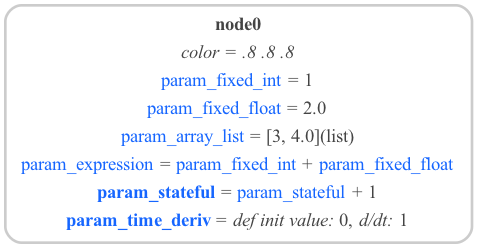
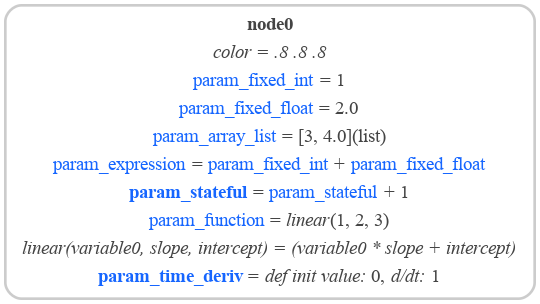
More in param func example

diff --git a/src/modeci_mdf/mdf.py b/src/modeci_mdf/mdf.py
@@ -166,9 +166,9 @@ class ParameterCondition(Base):
 @modelspec.define(eq=False)
 class Parameter(MdfBase):
     r"""
-    A parameter of the :class:`Node`, which can have a specific value (a constant or a string expression
-    referencing other :class:`Parameter`\(s)), be evaluated by an inbuilt function with args, or change from a
-    :code:`default_initial_value` with a :code:`time_derivative`.
+    A parameter of the :class:`Node`, which can be: 1) a specific fixed :code:`value` (a constant (int/float) or an array) 2) a string expression for the :code:`value`
+    referencing other named :class:`Parameter`\(s). which may be stateful (i.e. can change value over multiple executions of the :class:`Node`); 3) be evaluated by an
+    inbuilt :code:`function` with :code:`args`; 4) or change from a :code:`default_initial_value` with a :code:`time_derivative`.
 
     Attributes:
         value: The next value of the parameter, in terms of the inputs, functions and PREVIOUS parameter values

diff --git a/examples/MDF/params_funcs.py b/examples/MDF/params_funcs.py
@@ -29,6 +29,14 @@ def main():
         Parameter(id="param_expression", value="param_fixed_int + param_fixed_float")
     )
     node0.parameters.append(Parameter(id="param_stateful", value="param_stateful + 1"))
+
+    f1 = Parameter(
+        id="param_function",
+        function="linear",
+        args={"variable0": 1, "slope": 2, "intercept": 3},
+    )
+    node0.parameters.append(f1)
+
     node0.parameters.append(
         Parameter(id="param_time_deriv", default_initial_value=0, time_derivative="1")
     )
